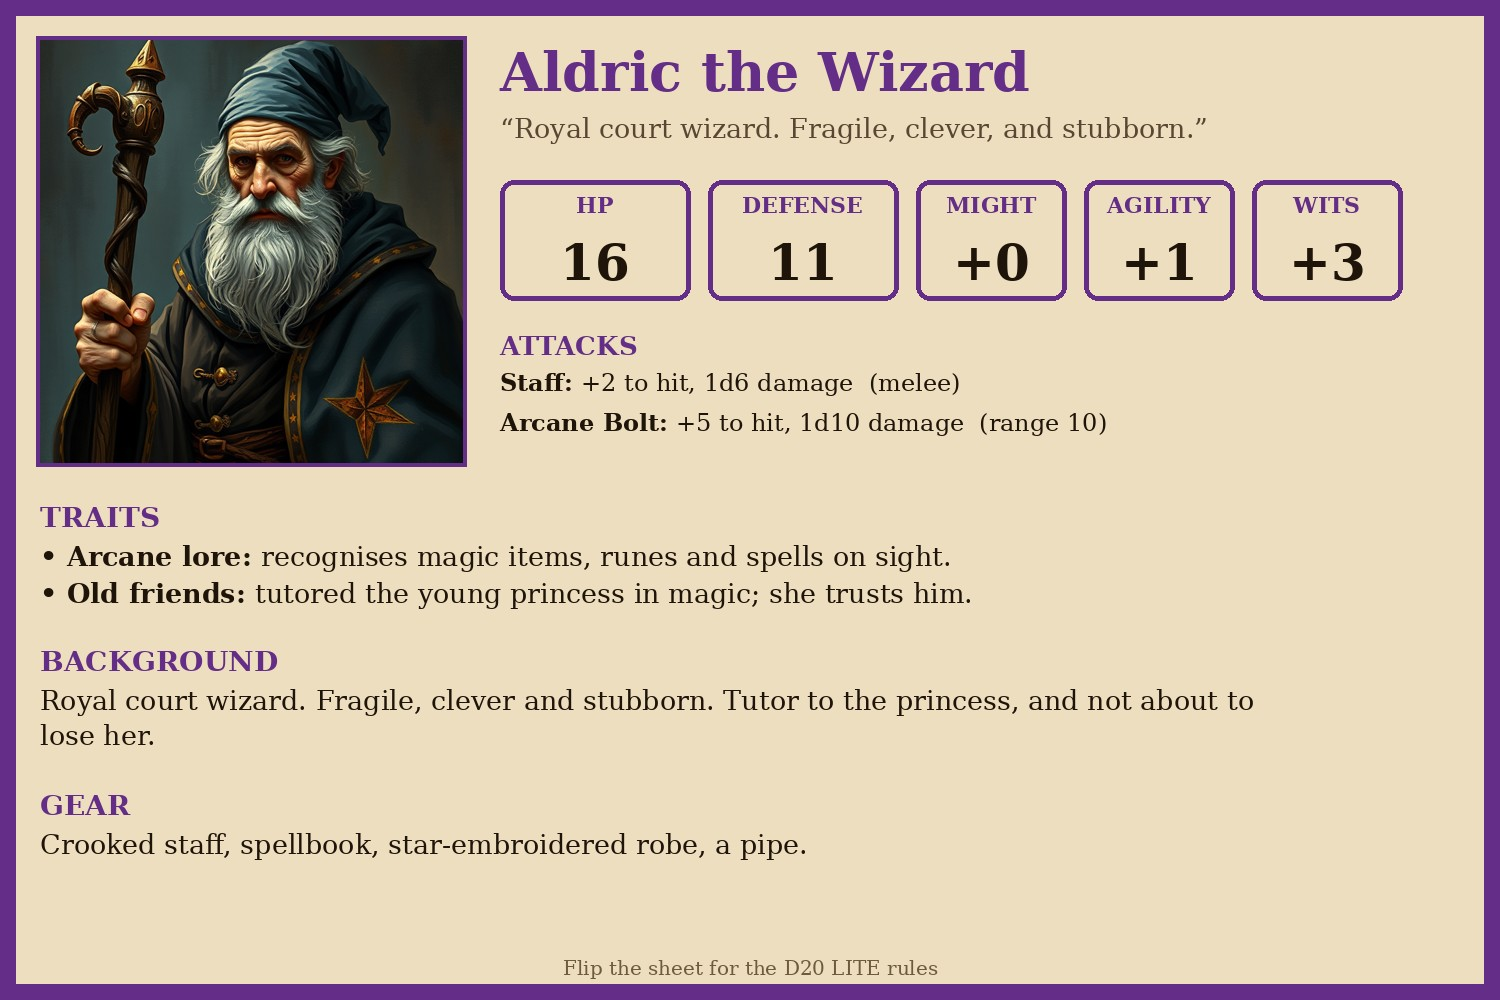
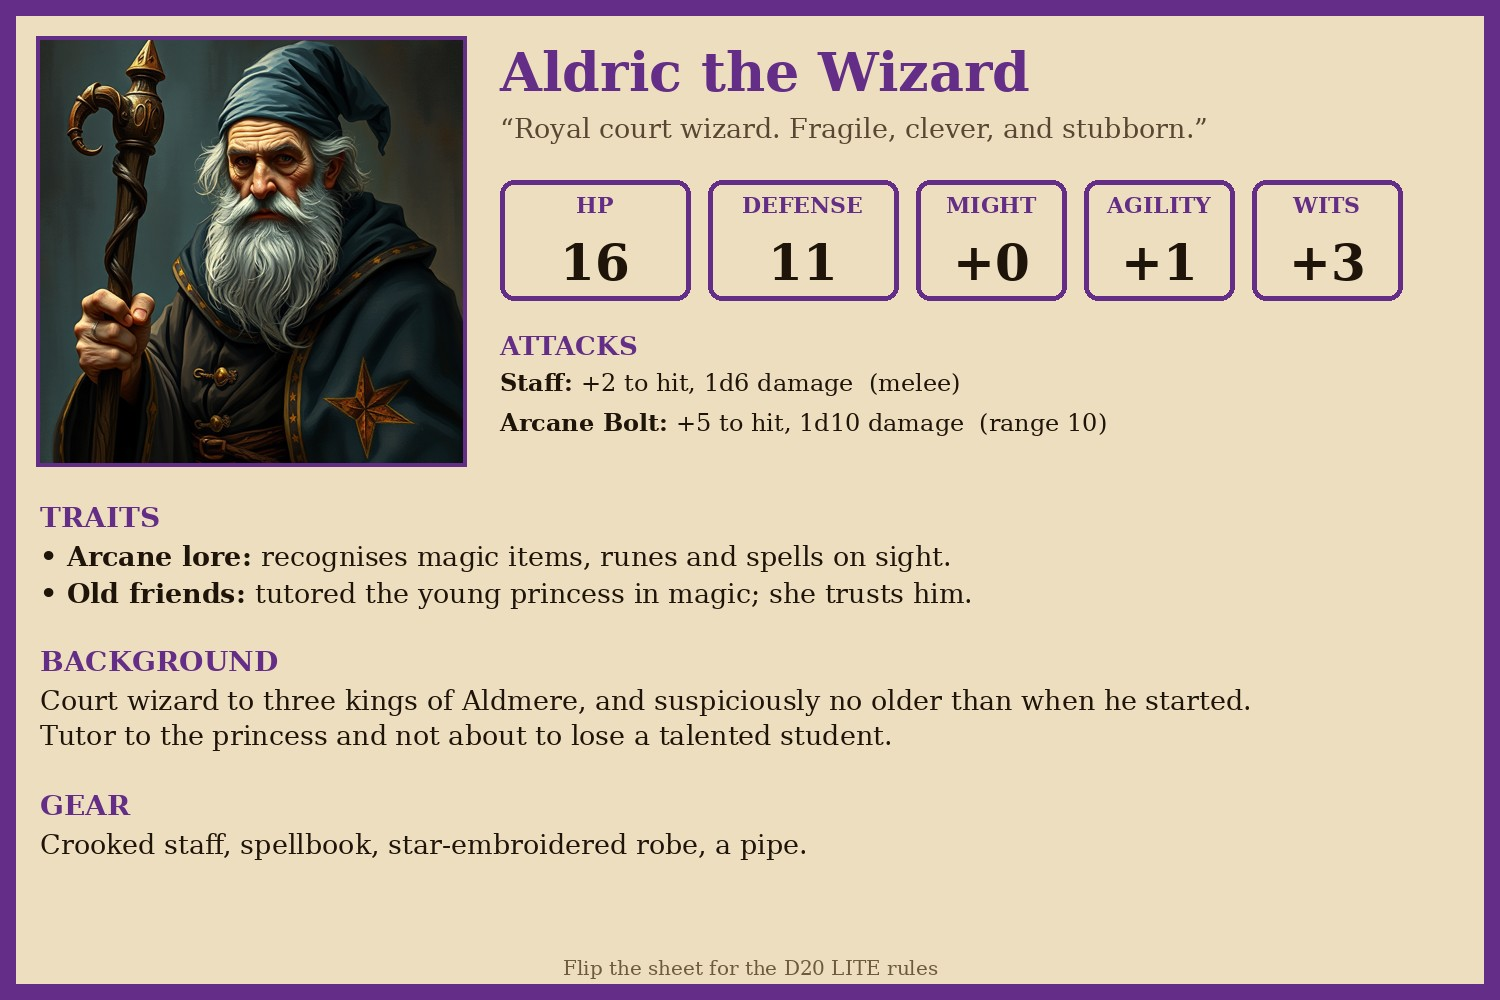
Aldric background: court wizard to three kings

Changed region(s): [[0.0307, 0.682, 0.828, 0.744]]

diff --git a/content.py b/content.py
@@ -102,7 +102,7 @@ HEROES = [
          blurb="Royal court wizard. Fragile, clever, and stubborn.",
          traits=["Arcane lore: recognises magic items, runes and spells on sight.",
                  "Old friends: tutored the young princess in magic; she trusts him."],
-         background="Royal court wizard. Fragile, clever and stubborn. Tutor to the princess, and not about to lose her.",
+         background="Court wizard to three kings of Aldmere, and suspiciously no older than when he started. Tutor to the princess and not about to lose a talented student.",
          gear="Crooked staff, spellbook, star-embroidered robe, a pipe.",
          portrait="an old bearded wizard with a crooked staff and star-embroidered robe, arcane glow",
          cards=[
